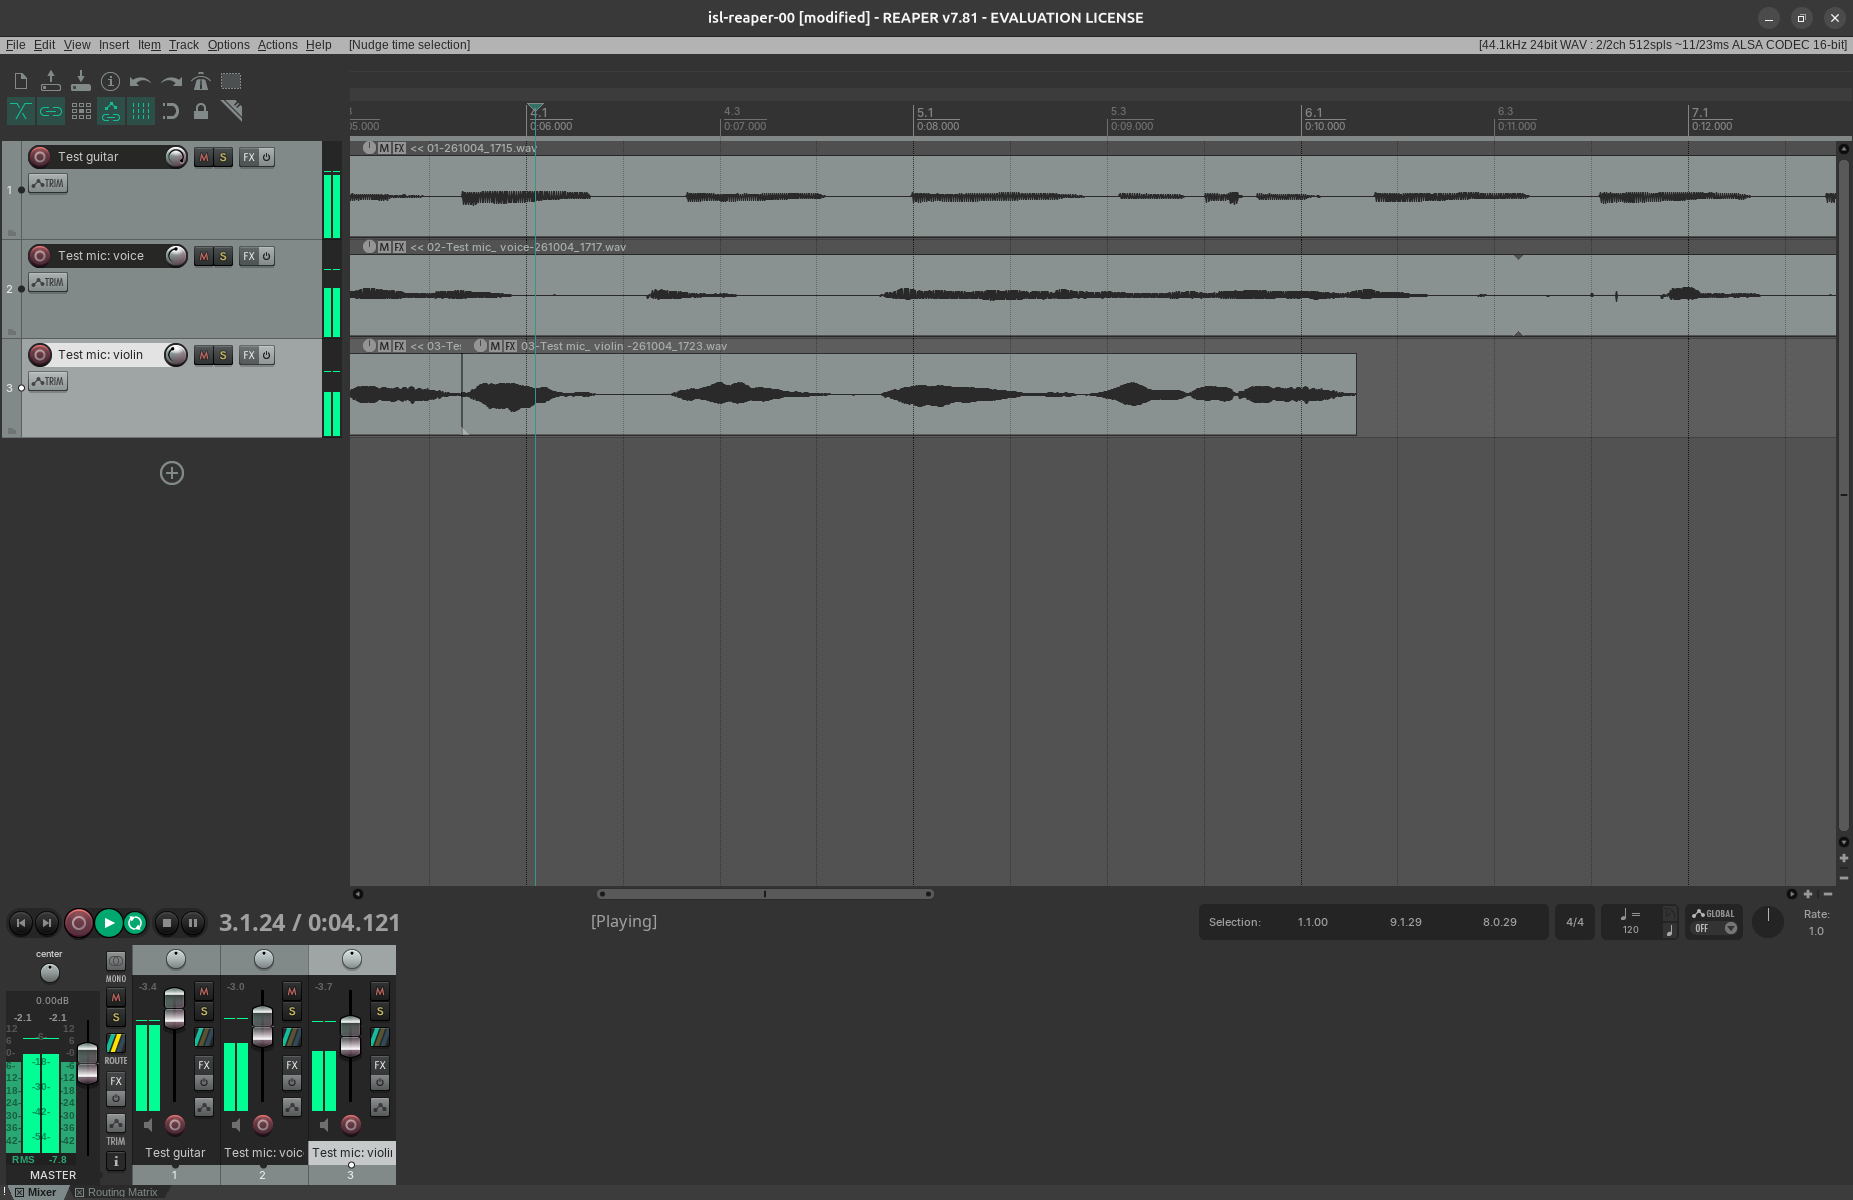
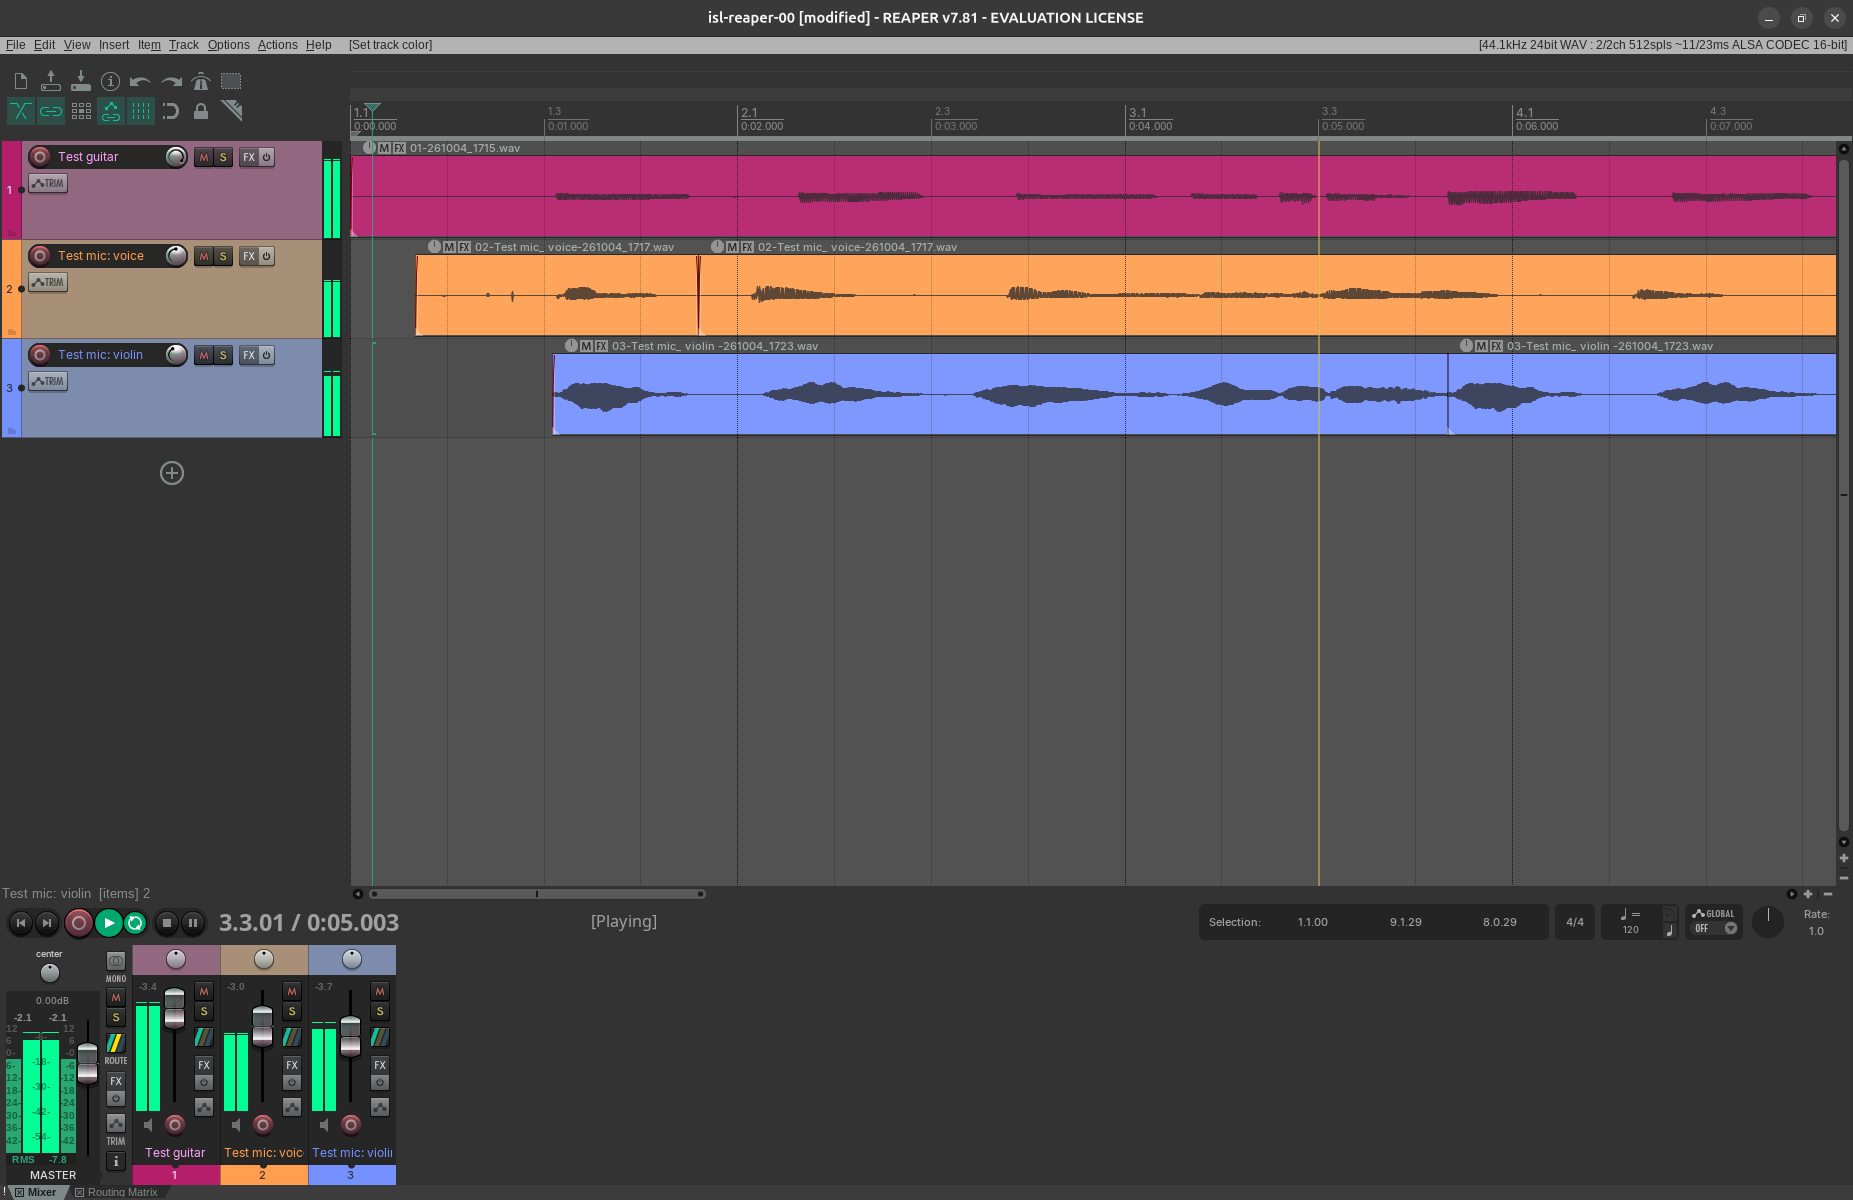
added notes / reaper / tutorials middle

diff --git a/isl/master.md b/isl/master.md
@@ -16,7 +16,35 @@ During the course of the Individual Skills Lab seminar, I will focus on the foll
 
 ### Learning process
 
-1. **Step 1:** Follow Reaper's video tutorial series, take notes, and start getting familiar with the software.
+1. **Step 1: Watch the first part of Reaper's video tutorial series, take notes, and start getting familiar with the software.**
+
+Before starting the tutorial videos, I decided to watch the [Benefits of reaper over other DAWS](https://www.reaper.fm/videos.php#PJrN23efnbw), to get a bit of context about Reaper before diving in. I also downloaded the user guide and skimmed through its table of content for further reference.
+
+Next, I installed Reaper for my Linux distribution. The installation process was very straightforward, I didn't run into any issues at first and started the video tutorial series while following along with the software.
+
+I went through the first 5 videos and took notes of all the tips mentioned, while trying out the different concepts demonstrated. It was definitely a lot of information at once, but the videos were well structured. It took me however much longer then the logged time, to get through the videos.
+
+I followed along the videos to set up a project and test the guitar input, as well as the mic input with voice and violin. 
+
+The interface I had was plug and play, I didn't need to install any drivers for it to work. 
+
+I adjusted the volume of the different tracks using the mixers after recording, I here realized I didn't have the sliders on my interface set up correctly, so after these tests I continued with the rest of the videos before recording again. I made some cuts using the razor tool to made a first mix, but when I tried to loop one of the cut tracks by dragging it, it didn't work how i thought (extends original audio file, not the cut one), so i had to manually duplicate it with `CTRL` + drag. I must check this out before ending this topicc.
+
+
+
+2. **Step 2: Create recordings in Reaper, while continuing videoseries**
+
+It was quite hard to figure out how to start creating the artefact, as I never mixed music before, and have mainly worked with visual media only. At the start I thought about creating a sonification of game footage to give me a more defined space to work with. I decided against this, because I thought it would overcomplicate the current exercise, and it might be harder to demonstrate the learned concepts from the tutorial. 
+
+Instead, I started with creating a simple bass loop on my guitar and work around this. This loop reminded me of a scene of somebody sitting down, opening a can and relaxing. So I thought about recording some sounds that captured that vibe and adding them to the music piece, a can opening, slurping sound, a sigh. I added some more strings to get a first interesting piece.
+
+From here, I decided to continue with the videoseries, to get some more knowledge in how to add interesting elements.
+
+During the 6th video, Recording Midi, I encountered a first issue with the Linux setup, when trying to install the `Iota mini` VSP. Since many VSP's are only built for Windows, I had to set up `wine` and `yabridge` to always be able to use VSP's built for Windows. It took me some time to resolve the issues the version conflicts created, but I was eventually able to get it running going through `yabridge`'s readme guides in detail. I am glad I read up into the docs and resolved this issue now, to avoid any further problems with my Linux setup.
+
+Once the `Iota mini` plugin was properly setup, I followed through the video and had some fun testing out my MIDI keyboard. The workflow with Recording and timing the midi keys was a bit frustrating at first, but I found the MIDI Editor extremely helpful in refining the recorded notes. After continuing watching more tutorial videos, I then added a simple drumline to my project, and started playing around with effects.
+
+
 
 ### Resources
 
@@ -31,10 +59,48 @@ During the course of the Individual Skills Lab seminar, I will focus on the foll
 
 ### Reflection
 
+
+#### Before session of 06.10
+
+- Learning by doing worked best for me: I followed the tutorials, and follow along with them, as well as experiment a bit while watching them. This made it so I spent a lot of time on the videos itself, but I remember the contents of them a lot better.
+- Quite a bit of problem solving, e.g. clunky at first with interface (eg accidentally making selections in the ruler all the time), MIDI recording also took a lot of practice, and figuring out how to use VSTs built for Windows on my Linux distro 
+- Hitting the target dB in recordings didn't always work
+- Making creative decisions at the start was very challenging, I felt too unexperienced to create something out of nothing. This was a mental block I had to get over
+- Some of the coolest DAW features for me were the MIDI editor with quantization, and the concept of buses and sends. I am also really excited to learn about automation and actions.
+- Still missing a lot of Mixing knowledge, but luckily that is my next topic
+
+
 ### Notes & Timetracking
 
 
-🕒 *Total tracked time: approx. 1 hour*
+🕒 ***Total tracked time: approx. 13 hours***
+
+---
+
+<details>
+  <summary>Important keyboard shortcuts overview</summary>
+
+  #### Keyboard shortcuts
+  - `CTRL + P` preferences
+  - `V` volume detail view
+  - `P` pan detail view
+  - `CTRL + R` start recording
+  - `CTRL + T` new track
+  - `SHIFT + G` Track grouping dialog
+  - `ALT + B` Open virtual midi keyboard
+  - `S` slices item at current timestamp
+  - `SHIFT + F` FX Browser
+
+  #### Mouse actions
+  - `trim`:  middle of edges of audio files
+  - `fade`: top of edges of audio files
+  - `volume`: drag up and down from top
+  - `stretch item` middle of edges while pressing 
+  `ALT`
+  - `Lasso selection`: right click drag
+  - `Razor tool`: `ALT` + right click drag (hold `SHIFT` for multiple razor edit areas)
+
+</details>
 
 ---
 <details>
@@ -62,10 +128,7 @@ During the course of the Individual Skills Lab seminar, I will focus on the foll
 - Easy switching between workspaces
 -  Render queue
 
-#### Overview mouse actions
-- `trim`:  middle of edges of audio files
-- `fade`: top of edges of audio files
-- `volume`: drag up and down from top
+
 
 #### In action
 
@@ -124,13 +187,7 @@ Setted up pc, installed reaper for linux, thoughts: very easy to find, no issues
   - Within a group: hold `SHIFT` to change individual track props
   - *Temporary groups* is same as multiselecting, `SHIFT` also works here
 
-#### Keyboard shortcuts
-- `CTRL + P` preferences
-- `V` volume detail view
-- `P` pan detail view
-- `CTRL + R` start recording
-- `CTRL + T` new track
-- `SHIFT + G` Track grouping dialog
+
 
 #### In action:
 
@@ -144,8 +201,146 @@ I adjusted the volume of the different tracks using the mixers, probably better 
 
 </details>
 
+---
+<details>
+  <summary>04.10.2026: 🕒 4 hours</summary>
+
+#### Video 4: [Recording Audio - Part 1](https://www.reaper.fm/videos.php#CKHWK3oTj-A)
+
+- Target level: between around `-12db` and `-18dB`, adjust knobs on interface to match this range
+- Toolbar: Metronome
+- Monitoring modes: right click on speaker icon in record mode, turn of `Monitor input` to not hear the output when recording.
+- `Direct monitoring` setting on interface will eliminate latency alltogether, when using, turn off Monitor input in Reaper
+- `Monitor input (Tape Auto Style)`: only hear the input track when recording is active, useful for overriding a part of the track (punch in/out)
+- Punching in/out create different **takes**, click the one you want to hear in playback
+- Choose one take and delete the other by selecting all audio in track (double click track), right click context menu, `Take > Crop to active take`
+- Switch to `Tape mode` in `Options > New recording that overlaps existing media items > Trim existing items (tape mode)`
+- You can extend the punches or crossfade with the existing take
+
+#### Video 5: [Recording Audio - Part 2](https://www.reaper.fm/videos.php#U0Tv1waD1sY)
+
+- **Auto punching**
+  - `Options > Record mode: time selection auto punch`, in the ruler, draw in a time section where the recording will be active.
+  - `Options > Record mode: auto-punch selected items`, use slices to split track into multiple items, then select the parts you want to overwrite
+  - Recording modes also available on right click on record button in Transport 
+- Record into **lanes** instead of using takes:
+  - `Options > New recording that overlaps existing media items >  Add lanes`
+  - To temporarily choose a preferred lane, but only hide not delete the other tracks, simply press `Disable lanes (hide non-playing tracks)` (right click on play icon by lanes)
+  - Right click on lane, `Comping > Comp into new empty lane`. The comped lane are marked as gold, when double clicking it toggles comp mode.
 
 
+#### Additional resources
+
+*Go over these again in detail later.*
+
+[Fundamentals of Rhythm for Electronic Music](https://www.youtube.com/watch?v=JE3QM_9sljI)
+
+[Sound Design and Synth Fundamentals](https://www.youtube.com/watch?v=NJLIS2MkFe4)
+
+
+#### In action
+
+Started first recording session in Reaper, played around with a few riffs, then started appliying the principles from the videos, see details in Learning process.
+
+![First version of the song in Reaper](img/notes/reaper-04.png "First version of the song in Reaper")
+  
+</details>
+
+---
+<details>
+  <summary>05.10.2026: 🕒 6 hours</summary>
+
+  #### Video 6: [Recording Midi](https://www.reaper.fm/videos.php#HOcJ31SIj68)
+
+- Free VST instrument plugin: `Iota mini`
+- Setup MIDI Keyboard: `Preferences  > MIDI Inputs`: select `input` / `all` and optionally `Control` (for linking with actions)
+- Create track, select `Input: MIDI` as source, select all channels
+- `View > Virtual Midi keyboard`
+- MIDI recording: go to `in` at the track, select `Record: MIDI overdub/replace > Record MIDI overdub`, this won't overwrite the notes on the previous pass when adding more passes
+- Metronome settings (right click): `Count-in before recording`
+- Fix midi recording by double clicking to view `Midi editor`, this lets you clean the recording
+  -  **Quantizing** the notes aligns the notes on the grid, press the `Q` icon for the `Quantize Events` dialog, Settings: `Manual`, Quantize: `All notes`, Grid: e.g. `1/8`
+  - Quantize `Position and note end` to also align the notes' length to the grid (useful for basslines for example)
+  - **Adjust velocity** by selecting all notes, then dragging up the velocity values (to set all notes to full volume)
+- in `Iota Mini`, some good presets include:
+  - `Trap Drum Kit 06` for Drums
+  - `808 - Rumble` for Bass
+  - `Keys - Eternity` for Keyboard
+  - `Pluck - Soft` for Guitar
+- Quantize during recording: in Track control right click IN FX `MIDI: All` button, and go `Track recording settings > Input Quantize MIDI recording`, also optionally select `Quantize note-offs`
+- Set selected notes to same length: Selection > `Event properties...` -> length eg `0.0.2`
+
+
+![Reaper test project with multiple MIDI tracks](img/notes/reaper-05.png "Reaper test project with multiple MIDI tracks")
+
+  #### Video 7: [Basic Audio Editing](https://www.reaper.fm/videos.php#EGL54WGa85A)
+
+- Hold down SHIFT to temporary toggle snapping
+- `Snap/Grid` settings dialog on right click: Turn off `Snap to grid at any distance` to have a less rigid snapping
+- Right click on fade to adjust the fading curve
+- Hold `Alt` to slide recording contents
+- Split items using `S` key, select all, right click: `Heal splits in items`
+- `CTRL` Drag to duplicate
+- `Crossfade` icon in toolbar sets default crossfade on overlap off
+- `Options > Trim content behind media items when editing` for avoiding media items playing at same time
+- Lasso selection at right click + drag
+- Multiselect fading only works with vertically aligned items
+
+ #### Video 8: [FX & Plugins](https://www.reaper.fm/videos.php#lFDv75U0nO0)
+
+- Find plugins by filtering on keyword (EQ, compressor, dynamics, etc)
+- `View > FX Browser` (`SHIFT + F`) opens browser for selected track, or without selected track, drag and drop to tracks
+  - Drag often used effects into `Favorites` folder
+  - Create custom folders, optionally `Smart folder` where all effects with certain keywords can go
+- Change order of effects in FX detail dialog
+- Double click to pop single  effect into a floating dialog
+- Right click on list: `FX chains > Save all FX as chain...`, it then appears into the `FX Chains` folder in the FX Browser
+- Right click on `FX` icon in Track control panel, to see recently used, categories, FX Chains, etc
+- Press off button next to `FX` icon to bypass effects temporarily (turns red)
+- `ALT` click `FX` icon to delete all effects
+- Drag and drop FX at a track to copy to another
+- `ALT` + Drag and drop to move it instead
+- The same actions are also available in the Track control panel and in the mixer
+- In the mixer, holding down `SHIFT` while clicking lets you bypass effects seperately
+- Normal FX do not change anything about the recording, but Input FX do get printed
+
+#### Video 9: [Sends & Busses](https://www.reaper.fm/videos.php#pfHGwzNyFC8)
+
+- `Route` -> `Master send` of parent track outputs to speaker
+- `Route` icon changes color based on its mode: cyan when master send is on, yellow when it is being sent, and blue when a track is receiving a send
+- Turning the master send off, can be useful when you want to `send` it to another track or a buss
+- `Post-Fader`, eg when changing the volume of the send effects the buss's input audio, `Pre-Fader` (eg for headphone mixes) and `Pre-FX` modes available too
+- Drag and drop from `Route` button to create a send, hold down `SHIFT` for multiple tracks
+- Holding down `ALT` for turning off master send
+- Why use sends ? Helps control multiple tracks at the same time (joined volume control, shared fx). Can be also useful for creating **parallel effects** where you can blend in a version of itself, eg highly distorted 
+- Also possible to use sends/buses as fx returns: create reverb on a buss, then adjust the balance in the `Routing` window under `Sends` / `Receives`
+
+
+ #### Video 10: [Folders](https://www.reaper.fm/videos.php#GGY4UYBbxyM)
+
+- Folders are containers for multiple tracks, used for similar reasons as busses/sends
+-To create a folder from a track, go to the `Folder` icon in the left bottom of the track, which then turns into a plus sign, sending all tracks underneath into the folder. Alternatively drag and drop tracks into `Folder` icon of parent
+- Folders are nestable, opening up interesting workflows. Allows us to control things in a broader way, eg all drums, all guitar, etc
+- Folders are collapsible on two additional levels, keeping big projects neater.
+- Actions > filter on 'Folder' > Track: Cycle folder collapsed state` -> add keyboard shortcut if used often
+- Tracks are also intended based on folder level, when it is missing turn back on in context > `Show folders`
+- Subtracks can be hidden in mixer by unchecking context > `Show tracks that are in folders`
+
+
+#### Video 11: [Track Grouping](https://www.reaper.fm/videos.php#3tmI88BKnb8)
+#### Video 12: [Markers & Regions](https://www.reaper.fm/videos.php#3tmI88BKnb8)
+
+-  
+#### In action
+
+
+To use VST's built for windows on linux, I followed this guide on reddit into using `yabridge`: [Reaper and VST support on Linux (Mint)](https://www.reddit.com/r/Reaper/comments/1o4o05s/reaper_and_vst_support_on_linux_mint/). After fixing the compatibility issues, the plugin shows up correctly. Spent some time getting used to recording with the MIDI keyboard.
+
+By default, the routing buttons where turned off in my interface. I reenabled them by setting the layout of the track control panel: `Options > Layouts > Track Panel > (View) B`
+
+Continued on prototype by adding MIDI drum track, and started playing around with FX.
+
+</details>
 
 ## Mixing Techniques
 
